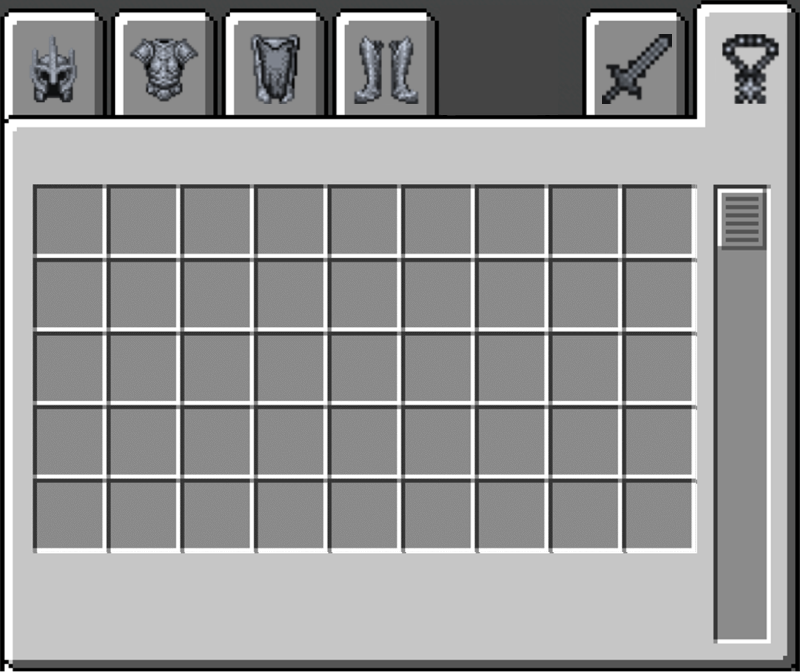
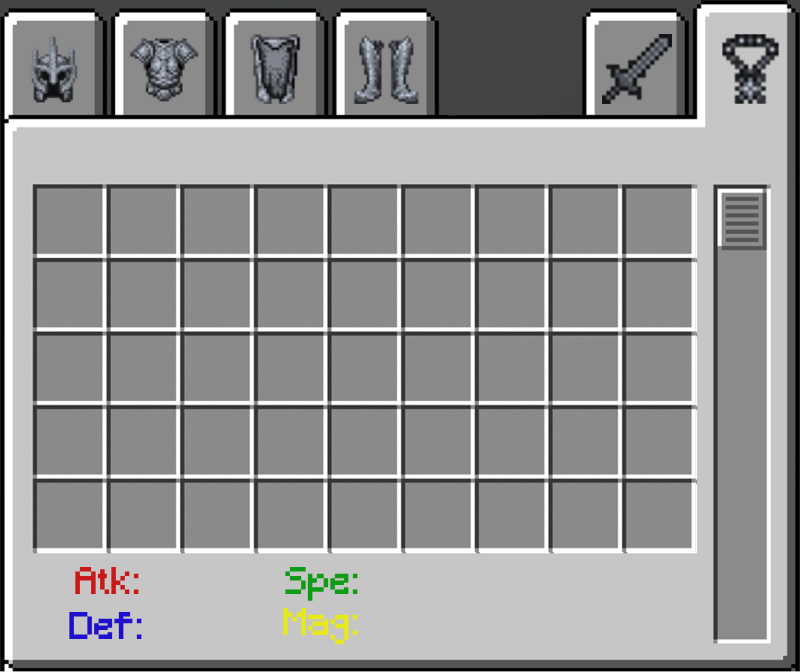
Add Item stats are now visible in inventory sheet

Changed region(s): [[0.3438, 0.8438, 0.4375, 0.9688], [0.0625, 0.8438, 0.1875, 0.9688]]

diff --git a/GUI.py b/GUI.py
@@ -1,4 +1,4 @@
-from tkinter import Button, Canvas, Label, PhotoImage, DISABLED
+from tkinter import HIDDEN, Button, Canvas, Label, PhotoImage, DISABLED
 from functions import Functions
 from database import DataBase
 
@@ -168,6 +168,32 @@ class GUI:
                     fill = "#f8f8f5",
                     font = ("Final Fantasy VII", int(80.0)))
         }
+        item_stats = {
+            'atk': canvas.create_text(
+                215.0, 584.5,
+                text = "100",
+                fill = "#000000",
+                state = HIDDEN,
+                font = ("Minecraft", int(36.0))),
+            'def': canvas.create_text(
+                215.0, 629.5,
+                text = "100",
+                fill = "#000000",
+                state = HIDDEN,
+                font = ("Minecraft", int(36.0))),
+            'vel': canvas.create_text(
+                428.0, 584.5,
+                text = "100",
+                fill = "#000000",
+                state = HIDDEN,
+                font = ("Minecraft", int(36.0))),
+            'mag': canvas.create_text(
+                428.0, 629.5,
+                text = "100",
+                fill = "#000000",
+                state = HIDDEN,
+                font = ("Minecraft", int(36.0)))
+        }
 
         # Botones
         coords = []
@@ -187,7 +213,7 @@ class GUI:
                 highlightthickness = 0,
                 relief = "flat")
             inventory_items[item['code']] = new_button
-            inventory_items[item['code']].configure(command = lambda code = item['code']: functions.select_item(inventory_items[code], character_armor, 'helmets_section', code))
+            inventory_items[item['code']].configure(command = lambda code = item['code']: functions.select_item(inventory_items[code], character_armor, 'helmets_section', code, db, item_stats, canvas))
         for item in db.chestplates:
             new_button = Button(
                 image = self.images[item['code']],
@@ -196,7 +222,7 @@ class GUI:
                 highlightthickness = 0,
                 relief = "flat")
             inventory_items[item['code']] = new_button
-            inventory_items[item['code']].configure(command = lambda code = item['code']: functions.select_item(inventory_items[code], character_armor, 'chestplates_section', code))
+            inventory_items[item['code']].configure(command = lambda code = item['code']: functions.select_item(inventory_items[code], character_armor, 'chestplates_section', code, db, item_stats, canvas))
         for item in db.pants:
             new_button = Button(
                 image = self.images[item['code']],
@@ -205,7 +231,7 @@ class GUI:
                 highlightthickness = 0,
                 relief = "flat")
             inventory_items[item['code']] = new_button
-            inventory_items[item['code']].configure(command = lambda code = item['code']: functions.select_item(inventory_items[code], character_armor, 'pants_section', code))
+            inventory_items[item['code']].configure(command = lambda code = item['code']: functions.select_item(inventory_items[code], character_armor, 'pants_section', code, db, item_stats, canvas))
         for item in db.boots:
             new_button = Button(
                 image = self.images[item['code']],
@@ -214,7 +240,7 @@ class GUI:
                 highlightthickness = 0,
                 relief = "flat")
             inventory_items[item['code']] = new_button
-            inventory_items[item['code']].configure(command = lambda code = item['code']: functions.select_item(inventory_items[code], character_armor, 'boots_section', code))
+            inventory_items[item['code']].configure(command = lambda code = item['code']: functions.select_item(inventory_items[code], character_armor, 'boots_section', code, db, item_stats, canvas))
         for item in db.weapons:
             new_button = Button(
                 image = self.images[item['code']],
@@ -223,7 +249,7 @@ class GUI:
                 highlightthickness = 0,
                 relief = "flat")
             inventory_items[item['code']] = new_button
-            inventory_items[item['code']].configure(command = lambda code = item['code']: functions.select_item(inventory_items[code], character_armor, 'weapons_section', code))
+            inventory_items[item['code']].configure(command = lambda code = item['code']: functions.select_item(inventory_items[code], character_armor, 'weapons_section', code, db, item_stats, canvas))
         for item in db.artifacts:
             new_button = Button(
                 image = self.images[item['code']],
@@ -232,7 +258,7 @@ class GUI:
                 highlightthickness = 0,
                 relief = "flat")
             inventory_items[item['code']] = new_button
-            inventory_items[item['code']].configure(command = lambda code = item['code']: functions.select_item(inventory_items[code], character_armor, 'artifacts_section', code))
+            inventory_items[item['code']].configure(command = lambda code = item['code']: functions.select_item(inventory_items[code], character_armor, 'artifacts_section', code, db, item_stats, canvas))
 
         # Equipment of the character
         character_armor = {'helmets_section':       [inventory_items[db.character['armor']['helmet']], db.character['armor']['helmet'],
@@ -254,7 +280,7 @@ class GUI:
 
         buttons['helmet_B'] = Button(
             image = self.images[character_armor['helmets_section'][1]+'_F'],
-            command = lambda: functions.initialize_inventory_sheet(root, db, background, canvas, self.images['helmets_bg'], stats_text, buttons, inventory_items, coords, 'helmets_section', character_armor),
+            command = lambda: functions.initialize_inventory_sheet(root, db, background, canvas, self.images['helmets_bg'], stats_text, buttons, inventory_items, coords, 'helmets_section', character_armor, item_stats),
             borderwidth = 0,
             highlightthickness = 0,
             relief = "flat")
@@ -265,7 +291,7 @@ class GUI:
             image = self.images[character_armor['chestplates_section'][1]+'_F'],
             borderwidth = 0,
             highlightthickness = 0,
-            command = lambda: functions.initialize_inventory_sheet(root, db, background, canvas, self.images['chestplates_bg'], stats_text, buttons, inventory_items, coords, 'chestplates_section', character_armor),
+            command = lambda: functions.initialize_inventory_sheet(root, db, background, canvas, self.images['chestplates_bg'], stats_text, buttons, inventory_items, coords, 'chestplates_section', character_armor, item_stats),
             relief = "flat")
         buttons['chestplate_B'].place(x = 523, y = 224)
         # character_armor['chestplates_section'][2].place(x= 579, y = 281, anchor = "center")
@@ -274,7 +300,7 @@ class GUI:
             image = self.images[character_armor['pants_section'][1]+'_F'],
             borderwidth = 0,
             highlightthickness = 0,
-            command = lambda: functions.initialize_inventory_sheet(root, db, background, canvas, self.images['pants_bg'], stats_text, buttons, inventory_items, coords, 'pants_section', character_armor),
+            command = lambda: functions.initialize_inventory_sheet(root, db, background, canvas, self.images['pants_bg'], stats_text, buttons, inventory_items, coords, 'pants_section', character_armor, item_stats),
             relief = "flat")
         buttons['pants_B'].place(x = 162, y = 355)
         # character_armor['pants_section'][2].place(x= 217, y = 412, anchor = "center")
@@ -283,7 +309,7 @@ class GUI:
             image = self.images[character_armor['boots_section'][1]+'_F'],
             borderwidth = 0,
             highlightthickness = 0,
-            command = lambda: functions.initialize_inventory_sheet(root, db, background, canvas, self.images['boots_bg'], stats_text, buttons, inventory_items, coords, 'boots_section', character_armor),
+            command = lambda: functions.initialize_inventory_sheet(root, db, background, canvas, self.images['boots_bg'], stats_text, buttons, inventory_items, coords, 'boots_section', character_armor, item_stats),
             relief = "flat")
         buttons['boots_B'].place(x = 523, y = 355)
         # character_armor['boots_section'][2].place(x= 579, y = 412, anchor = "center")
@@ -292,7 +318,7 @@ class GUI:
             image = self.images[character_armor['weapons_section'][1]+'_F'],
             borderwidth = 0,
             highlightthickness = 0,
-            command = lambda: functions.initialize_inventory_sheet(root, db, background, canvas, self.images['weapons_bg'], stats_text, buttons, inventory_items, coords, 'weapons_section', character_armor), 
+            command = lambda: functions.initialize_inventory_sheet(root, db, background, canvas, self.images['weapons_bg'], stats_text, buttons, inventory_items, coords, 'weapons_section', character_armor, item_stats), 
             relief = "flat")
         buttons['weapon_B'].place(x = 268, y = 87)
         # character_armor['weapons_section'][2].place(x= 324, y = 144, anchor = "center")
@@ -301,7 +327,7 @@ class GUI:
             image = self.images[character_armor['artifacts_section'][1]+'_F'],
             borderwidth = 0,
             highlightthickness = 0,
-            command = lambda: functions.initialize_inventory_sheet(root, db, background, canvas, self.images['artifacts_bg'], stats_text, buttons, inventory_items, coords, 'artifacts_section', character_armor), 
+            command = lambda: functions.initialize_inventory_sheet(root, db, background, canvas, self.images['artifacts_bg'], stats_text, buttons, inventory_items, coords, 'artifacts_section', character_armor, item_stats), 
             relief = "flat")
         buttons['artifact_B'].place(x = 417, y = 87)
         # character_armor['artifacts_section'][2].place(x= 473, y = 144, anchor = "center")
@@ -310,68 +336,68 @@ class GUI:
             image = self.images['helmets_section'],
             borderwidth = 0,
             highlightthickness = 0,
-            command = lambda: functions.inventory_sheet_button(buttons, db, coords, inventory_items, 'helmets_section', background, canvas, self.images['helmets_bg'], character_armor),
+            command = lambda: functions.inventory_sheet_button(buttons, db, coords, inventory_items, 'helmets_section', background, canvas, self.images['helmets_bg'], character_armor, item_stats),
             relief = "flat")
 
         buttons['boots_section'] = Button(
             image = self.images['boots_section'],
             borderwidth = 0,
             highlightthickness = 0,
-            command = lambda: functions.inventory_sheet_button(buttons, db, coords, inventory_items, 'boots_section', background, canvas, self.images['boots_bg'], character_armor),
+            command = lambda: functions.inventory_sheet_button(buttons, db, coords, inventory_items, 'boots_section', background, canvas, self.images['boots_bg'], character_armor, item_stats),
             relief = "flat")
 
         buttons['pants_section'] = Button(
             image = self.images['pants_section'],
             borderwidth = 0,
             highlightthickness = 0,
-            command = lambda: functions.inventory_sheet_button(buttons, db, coords, inventory_items, 'pants_section', background, canvas, self.images['pants_bg'], character_armor),
+            command = lambda: functions.inventory_sheet_button(buttons, db, coords, inventory_items, 'pants_section', background, canvas, self.images['pants_bg'], character_armor, item_stats),
             relief = "flat")
 
         buttons['chestplates_section'] = Button(
             image = self.images['chestplates_section'],
             borderwidth = 0,
             highlightthickness = 0,
-            command = lambda: functions.inventory_sheet_button(buttons, db, coords, inventory_items, 'chestplates_section', background, canvas, self.images['chestplates_bg'], character_armor),
+            command = lambda: functions.inventory_sheet_button(buttons, db, coords, inventory_items, 'chestplates_section', background, canvas, self.images['chestplates_bg'], character_armor, item_stats),
             relief = "flat")
 
         buttons['weapons_section'] = Button(
             image = self.images['weapons_section'],
             borderwidth = 0,
             highlightthickness = 0,
-            command = lambda: functions.inventory_sheet_button(buttons, db, coords, inventory_items, 'weapons_section', background, canvas, self.images['weapons_bg'], character_armor),
+            command = lambda: functions.inventory_sheet_button(buttons, db, coords, inventory_items, 'weapons_section', background, canvas, self.images['weapons_bg'], character_armor, item_stats),
             relief = "flat")
 
         buttons['artifacts_section'] = Button(
             image = self.images['artifacts_section'],
             borderwidth = 0,
             highlightthickness = 0,
-            command = lambda: functions.inventory_sheet_button(buttons, db, coords, inventory_items, 'artifacts_section', background, canvas, self.images['artifacts_bg'], character_armor),
+            command = lambda: functions.inventory_sheet_button(buttons, db, coords, inventory_items, 'artifacts_section', background, canvas, self.images['artifacts_bg'], character_armor, item_stats),
             relief = "flat")
 
-        buttons['equip_B'] = Button(
-            image = self.images['equip_B'],
-            borderwidth = 0,
-            highlightthickness = 0,
-            command = lambda: functions.btn(),
-            relief = "flat")
+        # buttons['equip_B'] = Button(
+        #     image = self.images['equip_B'],
+        #     borderwidth = 0,
+        #     highlightthickness = 0,
+        #     command = lambda: functions.btn(),
+        #     relief = "flat")
 
-        buttons['unequip_B'] = Button(
-            image = self.images['unequip_B'],
-            borderwidth = 0,
-            highlightthickness = 0,
-            command = lambda: functions.btn(),
-            relief = "flat")
+        # buttons['unequip_B'] = Button(
+        #     image = self.images['unequip_B'],
+        #     borderwidth = 0,
+        #     highlightthickness = 0,
+        #     command = lambda: functions.btn(),
+        #     relief = "flat")
 
-        buttons['info_B'] = Button(
-            image = self.images['info_B'],
-            borderwidth = 0,
-            highlightthickness = 0,
-            command = lambda: functions.btn(),
-            relief = "flat")
+        # buttons['info_B'] = Button(
+        #     image = self.images['info_B'],
+        #     borderwidth = 0,
+        #     highlightthickness = 0,
+        #     command = lambda: functions.btn(),
+        #     relief = "flat")
 
         buttons['back_B'] = Button(
             image = self.images['back_B'],
             borderwidth = 0,
             highlightthickness = 0,
-            command = lambda: functions.initialize_character_sheet(root, background, canvas, self.images['character_bg'], buttons, stats_text, inventory_items, db.data, character_armor, self.images),
+            command = lambda: functions.initialize_character_sheet(root, background, canvas, self.images['character_bg'], buttons, stats_text, inventory_items, db.data, character_armor, self.images, item_stats),
             relief = "flat")

diff --git a/functions.py b/functions.py
@@ -8,7 +8,7 @@ class Functions:
         canvas.itemconfig(stats['vel'], text = db.character['stats']['vel'])
         canvas.itemconfig(stats['mag'], text = db.character['stats']['mag'])
 
-    def inventory_sheet_button(self, buttons, db, coords, inventory_items, section, background, canvas, img, character_armor):
+    def inventory_sheet_button(self, buttons, db, coords, inventory_items, section, background, canvas, img, character_armor, item_stats):
         canvas.itemconfig(background, image = img)
         
         buttons['helmets_section'].place(x = 2, y = 5)
@@ -17,15 +17,21 @@ class Functions:
         buttons['chestplates_section'].place(x = 110, y = 7)
         buttons['weapons_section'].place(x = 582, y = 6)
         buttons['artifacts_section'].place(x = 693, y = 7)
-        buttons['equip_B'].place(x = 31, y = 571)
-        buttons['unequip_B'].place(x = 205, y = 571)
-        buttons['info_B'].place(x = 379, y = 571)
-        buttons['back_B'].place(x = 553, y = 571)
+        # buttons['equip_B'].place(x = 31, y = 571)
+        # buttons['unequip_B'].place(x = 205, y = 571)
+        # buttons['info_B'].place(x = 379, y = 571)
+        buttons['back_B'].place(x = 530, y = 571)
 
         buttons[section].place_forget()
 
         for item in inventory_items:
             inventory_items[item].place_forget()
+
+        # mostrar stats del objeto
+        canvas.itemconfig(item_stats['atk'], text= list(db.data[section[:-8]].find({'code': character_armor[section][1]}))[0]['stats']['atk'])
+        canvas.itemconfig(item_stats['def'], text= list(db.data[section[:-8]].find({'code': character_armor[section][1]}))[0]['stats']['def'])
+        canvas.itemconfig(item_stats['vel'], text= list(db.data[section[:-8]].find({'code': character_armor[section][1]}))[0]['stats']['vel'])
+        canvas.itemconfig(item_stats['mag'], text= list(db.data[section[:-8]].find({'code': character_armor[section][1]}))[0]['stats']['mag'])
 
         try:
             if(section == 'helmets_section'):
@@ -49,7 +55,7 @@ class Functions:
         except:
             next
     
-    def initialize_inventory_sheet(self, root, db, background, canvas, img, stats_text, buttons, inventory_items, coords, section, character_armor):
+    def initialize_inventory_sheet(self, root, db, background, canvas, img, stats_text, buttons, inventory_items, coords, section, character_armor,item_stats):
         root.geometry("800x671")
         buttons['helmet_B'].place_forget()
         buttons['chestplate_B'].place_forget()
@@ -58,14 +64,17 @@ class Functions:
         buttons['weapon_B'].place_forget()
         buttons['artifact_B'].place_forget()
 
-        canvas.itemconfig(stats_text['atk'], state= HIDDEN)
-        canvas.itemconfig(stats_text['def'], state= HIDDEN)
-        canvas.itemconfig(stats_text['vel'], state= HIDDEN)
-        canvas.itemconfig(stats_text['mag'], state= HIDDEN)
+        for item in stats_text:
+            canvas.itemconfig(stats_text[item], state= HIDDEN)
 
-        self.inventory_sheet_button(buttons, db, coords, inventory_items, section, background, canvas, img, character_armor)
+        canvas.itemconfig(item_stats['atk'], state= NORMAL)
+        canvas.itemconfig(item_stats['def'], state= NORMAL)
+        canvas.itemconfig(item_stats['vel'], state= NORMAL)
+        canvas.itemconfig(item_stats['mag'], state= NORMAL)
 
-    def initialize_character_sheet(self, root, background, canvas, img, buttons, stats_text, inventory_items, db, character_armor, images):
+        self.inventory_sheet_button(buttons, db, coords, inventory_items, section, background, canvas, img, character_armor, item_stats)
+
+    def initialize_character_sheet(self, root, background, canvas, img, buttons, stats_text, inventory_items, db, character_armor, images, item_stats):
         root.geometry("800x800")
         canvas.itemconfig(background, image = img)
         buttons['helmets_section'].place_forget()
@@ -74,10 +83,12 @@ class Functions:
         buttons['chestplates_section'].place_forget()
         buttons['weapons_section'].place_forget()
         buttons['artifacts_section'].place_forget()
-        buttons['equip_B'].place_forget()
-        buttons['unequip_B'].place_forget()
-        buttons['info_B'].place_forget()
+        # buttons['equip_B'].place_forget()
+        # buttons['unequip_B'].place_forget()
+        # buttons['info_B'].place_forget()
         buttons['back_B'].place_forget()
+        for item in item_stats:
+            canvas.itemconfig(item_stats[item], state= HIDDEN)
         for item in inventory_items:
             inventory_items[item].place_forget()
         
@@ -114,11 +125,16 @@ class Functions:
         canvas.itemconfig(stats_text['vel'], state= NORMAL, text= character['stats']['vel'])
         canvas.itemconfig(stats_text['mag'], state= NORMAL, text= character['stats']['mag'])
 
-    def select_item(self, button, character_armor, piece, code):
+    def select_item(self, button, character_armor, piece, code, db, item_stats, canvas):
         character_armor[piece][0]['state'] = NORMAL
         character_armor[piece][0] = button
         character_armor[piece][0]['state'] = DISABLED
         character_armor[piece][1] = code
+
+        canvas.itemconfig(item_stats['atk'], text= list(db.data[piece[:-8]].find({'code': character_armor[piece][1]}))[0]['stats']['atk'])
+        canvas.itemconfig(item_stats['def'], text= list(db.data[piece[:-8]].find({'code': character_armor[piece][1]}))[0]['stats']['def'])
+        canvas.itemconfig(item_stats['vel'], text= list(db.data[piece[:-8]].find({'code': character_armor[piece][1]}))[0]['stats']['vel'])
+        canvas.itemconfig(item_stats['mag'], text= list(db.data[piece[:-8]].find({'code': character_armor[piece][1]}))[0]['stats']['mag'])
 
     def get_stat(self, db, character_armor, stat):
         helmet = list(db['helmets'].find({'code': character_armor['helmets_section'][1]}))[0]['stats'][stat]
@@ -129,6 +145,3 @@ class Functions:
         artifact = list(db['artifacts'].find({'code': character_armor['artifacts_section'][1]}))[0]['stats'][stat]
 
         return int((helmet + chestplate + pants + boots + weapon) * artifact)
-
-    def btn(self):
-        a = 0
